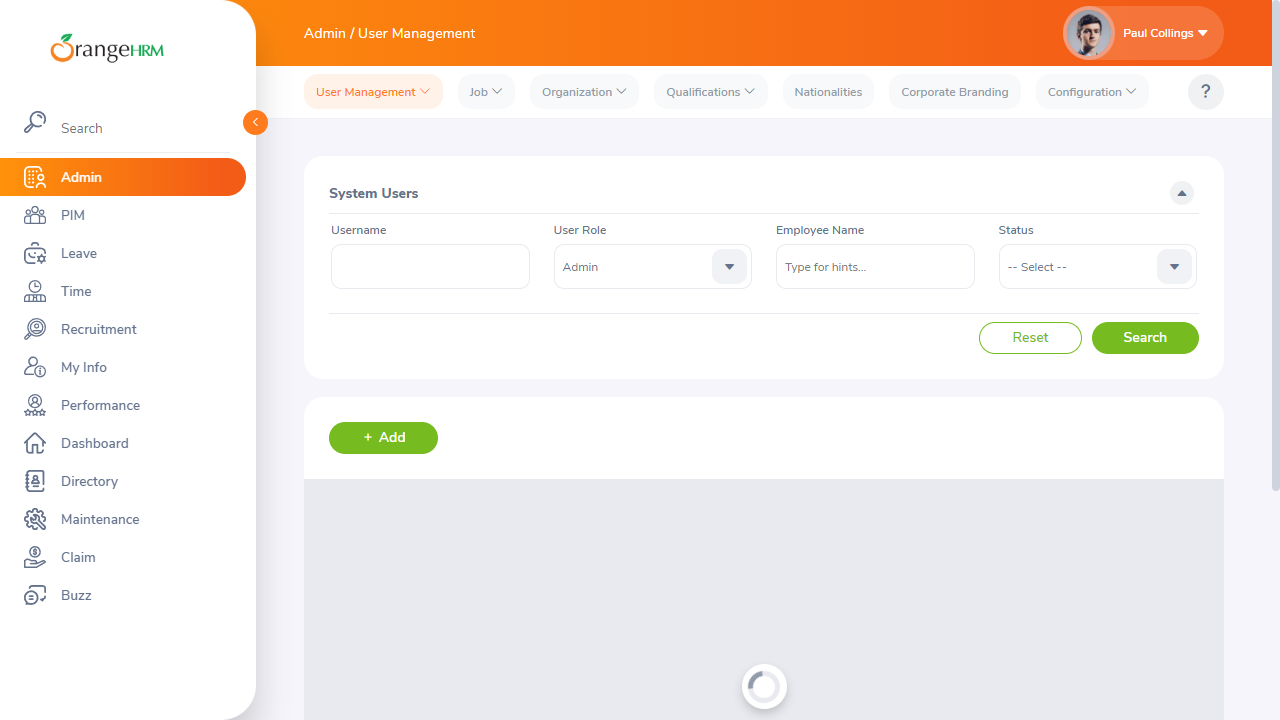
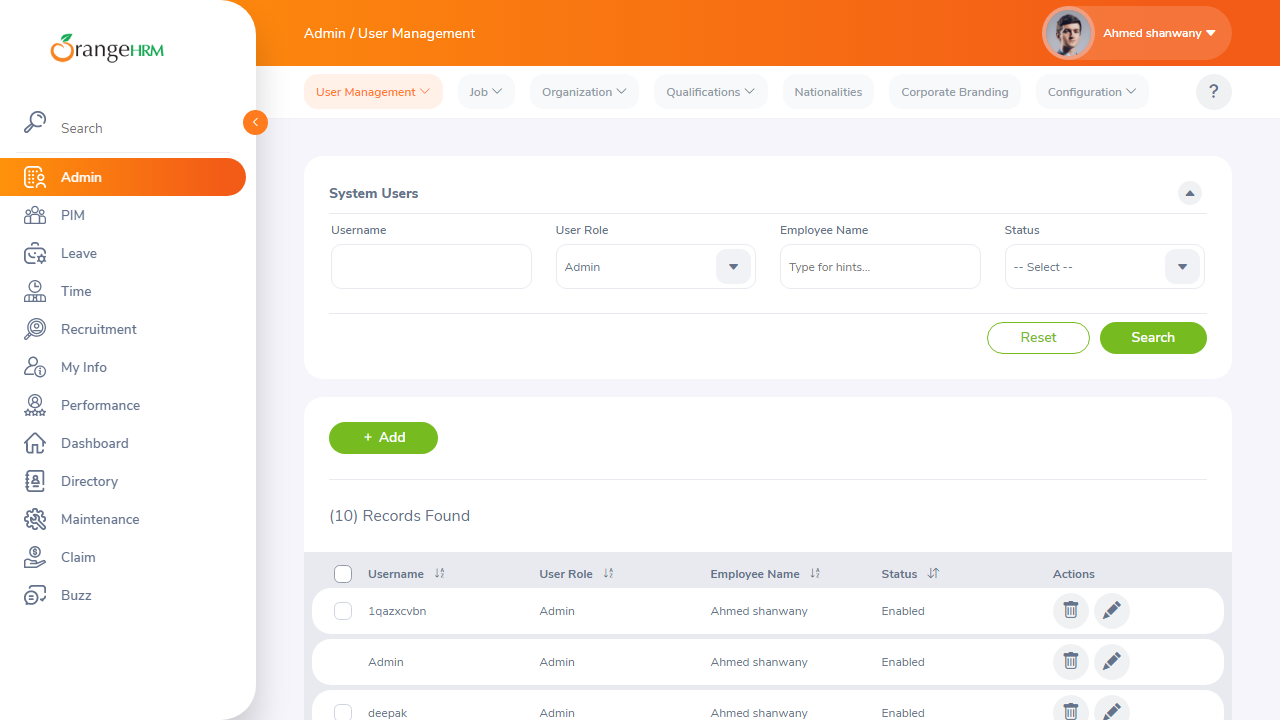
Admin user assertion loop WIP.

diff --git a/src/test/pages/AdminPage.ts b/src/test/pages/AdminPage.ts
@@ -16,7 +16,10 @@ export class AdminPage {
         buzzTab:() => pageFixture.page.locator(getResource('buzzTab').selectorValue),
         userField:() => pageFixture.page.locator(getResource('userField').selectorValue),
         roleDropDown:() => pageFixture.page.locator(getResource('roleDropDown').selectorValue),
-        searchBtnAdmin:() => pageFixture.page.locator(getResource('searchBtnAdmin').selectorValue)
+        searchBtnAdmin:() => pageFixture.page.locator(getResource('searchBtnAdmin').selectorValue),
+        sysAdminTable:() => pageFixture.page.locator(getResource('systemUserTable').selectorValue),
+        tableCardData:() => pageFixture.page.locator(getResource('tableCard').selectorValue),
+        
     }
 
 
@@ -44,13 +47,19 @@ export class AdminPage {
         
     }
 
-    public async searchAdminUsers():Promise<void>{
+    public async getAdmins(numberOfCheckboxes: number):Promise<void>{
+        for(let i=1;i<=numberOfCheckboxes;i++){
+             
+            // await expect(tableCardData).toHaveText('Admin');
 
-        const searchEl = this.adminPageLocators.searchBtnAdmin();
-        await searchEl.click();
-    
-        
-        
+            const table = this.adminPageLocators.sysAdminTable();
+            //console.log(table)
+            await expect (table).toContainText('Admin')
+            
+            //const rows = this.adminPageLocators.tableCardData();
+
+            
+    }
     }
 
 

diff --git a/src/test/steps/adminPageStepsDef.ts b/src/test/steps/adminPageStepsDef.ts
@@ -21,7 +21,7 @@ When('User is able to select role.', async function () {
     await userDetails.enterUserDetails();
 })
 
-// Then('User is able to search by Admin role', async function (){
-//     let userDetails = new AdminPage(pageFixture.page);
-//     await userDetails.searchAdminUsers();
-// })
+Then('User is able to search by {int} Admin role', async function (numberOfCheckboxes: number){
+    let userDetails = new AdminPage(pageFixture.page);
+    await userDetails.getAdmins(numberOfCheckboxes)
+})
